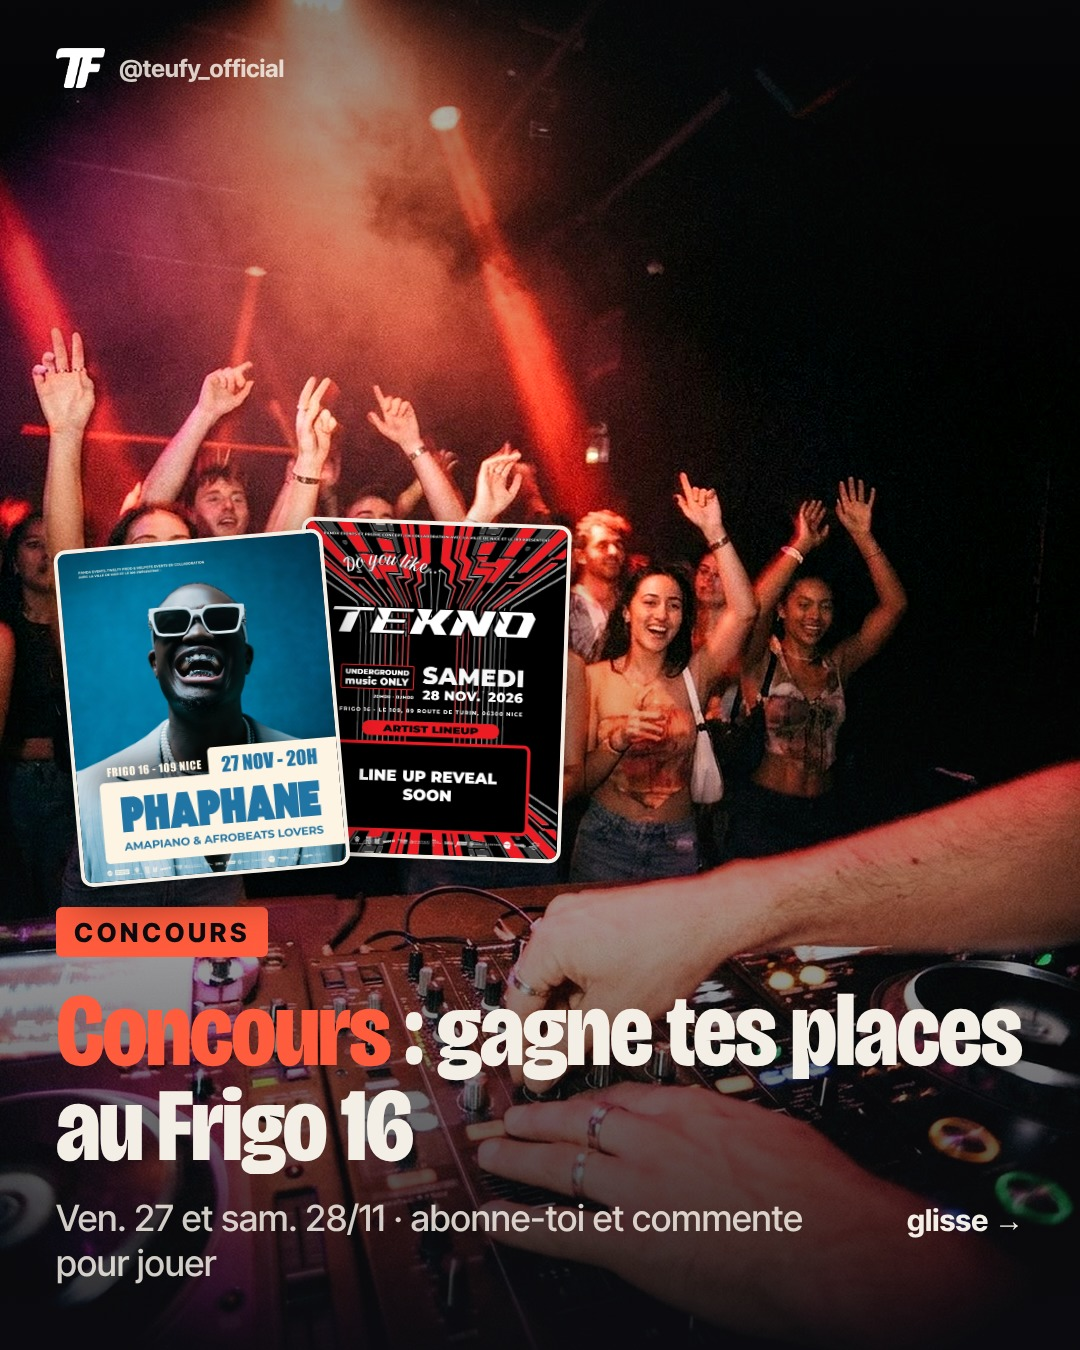
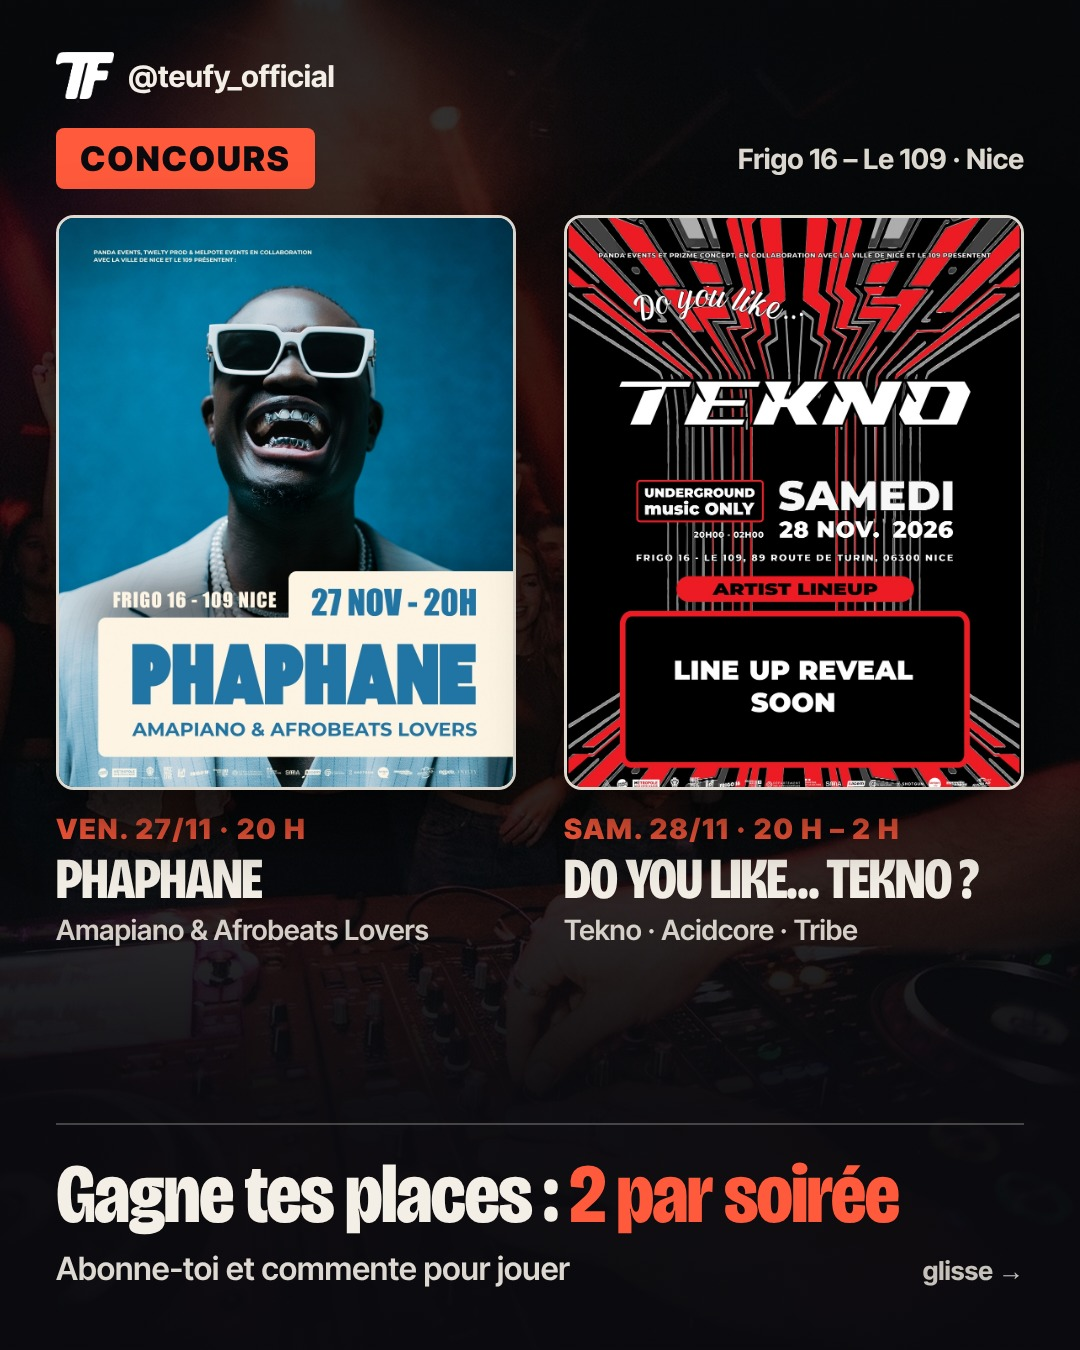
Concours Frigo 16 : couverture pro, les 2 soirées identifiées dès la première page (affiche, date, nom, style), sans cadeau ni emoji ; consigne concours complétée
Claude-Session: https://claude.ai/code/session_01UDWYmWuGkMKcV3nZgYu5nu

diff --git a/media/posts-prets/2026-11-19-concours-frigo16/sources/visuels.html b/media/posts-prets/2026-11-19-concours-frigo16/sources/visuels.html
@@ -32,15 +32,23 @@ body{background:#000;font-family:IT,sans-serif;color:var(--creme)}
 .petit p{margin-bottom:16px}
 </style></head><body>
 
-<!-- 1 · couverture -->
-<div class="v" id="s1"><img class="photo" src="dj.jpg" style="filter:brightness(.8)"><div class="voile"></div>
+<!-- 1 · couverture : on comprend tout de suite que c'est un concours ET quelles sont les 2 soirées (directeur, 19/11/2026) -->
+<div class="v" id="s1"><img class="photo" src="dj.jpg" style="filter:brightness(.42) saturate(1.1)"><div class="voile" style="background:linear-gradient(180deg,rgba(11,11,15,.7) 0%,rgba(11,11,15,.35) 30%,rgba(11,11,15,.55) 60%,rgba(11,11,15,.96) 82%)"></div>
  <div class="sign"><img src="logo.png">@teufy_official</div>
- <img class="affiche" src="phaphane.jpg" style="left:110px;top:250px;width:390px;transform:rotate(-7deg)">
- <img class="affiche" src="tekno.jpg" style="left:560px;top:270px;width:390px;transform:rotate(6deg)">
- <div class="bas"><span class="etq">Concours</span>
-  <div class="titre" style="font-size:118px;margin:22px 0 18px">On t'invite au<br><em>Frigo 16</em></div>
-  <div class="sous">Ven. 27 et sam. 28 novembre · 2 places à gagner pour chaque soirée</div></div>
- <div class="glisse">glisse →</div>
+ <div style="position:absolute;left:56px;right:56px;top:128px;display:flex;align-items:center;justify-content:space-between">
+  <span class="etq" style="font-size:34px;padding:10px 24px">Concours</span>
+  <span style="font-size:28px;font-weight:700;opacity:.9">Frigo 16 – Le 109 · Nice</span></div>
+ <div style="position:absolute;left:56px;top:215px;width:460px"><img class="affiche" src="phaphane.jpg" style="position:relative;display:block;width:460px;height:575px;object-fit:cover;border-radius:18px;border-width:3px">
+  <div style="margin-top:22px;font-size:28px;font-weight:900;letter-spacing:.06em;color:var(--corail)">VEN. 27/11 · 20 H</div>
+  <div class="titre" style="font-size:58px;margin-top:6px">PHAPHANE</div>
+  <div style="font-size:28px;font-weight:600;opacity:.85;margin-top:6px">Amapiano &amp; Afrobeats Lovers</div></div>
+ <div style="position:absolute;left:564px;top:215px;width:460px"><img class="affiche" src="tekno.jpg" style="position:relative;display:block;width:460px;height:575px;object-fit:cover;object-position:top;border-radius:18px;border-width:3px">
+  <div style="margin-top:22px;font-size:28px;font-weight:900;letter-spacing:.06em;color:var(--corail)">SAM. 28/11 · 20 H – 2 H</div>
+  <div class="titre" style="font-size:58px;margin-top:6px;white-space:nowrap">DO YOU LIKE… TEKNO&nbsp;?</div>
+  <div style="font-size:28px;font-weight:600;opacity:.85;margin-top:6px">Tekno · Acidcore · Tribe</div></div>
+ <div style="position:absolute;left:56px;right:56px;bottom:62px;border-top:2px solid rgba(244,239,230,.25);padding-top:30px">
+  <div class="titre" style="font-size:84px">Gagne tes places : <em>2 par soirée</em></div>
+  <div style="display:flex;justify-content:space-between;align-items:baseline;margin-top:14px"><div style="font-size:32px;font-weight:600;opacity:.9">Abonne-toi et commente pour jouer</div><div style="font-size:26px;font-weight:700;opacity:.8">glisse →</div></div></div>
 </div>
 
 <!-- 2 · Phaphane -->

diff --git a/CLAUDE.md b/CLAUDE.md
@@ -47,6 +47,8 @@
   toute publication** : un post prêt (`media/posts-prets/<date-nom>/`) et ses stories (`contenus/stories-pretes.json`) ne partent
   que si `"valide": true`, mis seulement après son accord écrit. Toujours : règlement (gratuit, 18 ans et plus, date et heure du
   tirage, nombre de gagnants et de places, « Instagram n'est ni organisateur ni partenaire »), mise en garde contre les faux
-  comptes, tags vérifiés seulement.
+  comptes, tags vérifiés seulement. Rendu **pro** : aucun cadeau, gadget ou décor fantaisie (directeur : « fais que ça fasse
+  pro ») ; **dès la couverture**, on voit quelles soirées sont en jeu (affiche, date, nom, style de chacune) et ce qu'on gagne.
+  Modèle : `media/posts-prets/2026-11-19-concours-frigo16/sources/visuels.html`.
 - **Pas d'emoji** (directeur, 19/11/2026 : « pas d'emoji bizarre, ça fait IA ») : aucun emoji dans les visuels (couvertures,
   slides, stories, vidéos), ni dans les légendes des concours et des posts prêts ; on compte avec « 1. », « 2. ».
